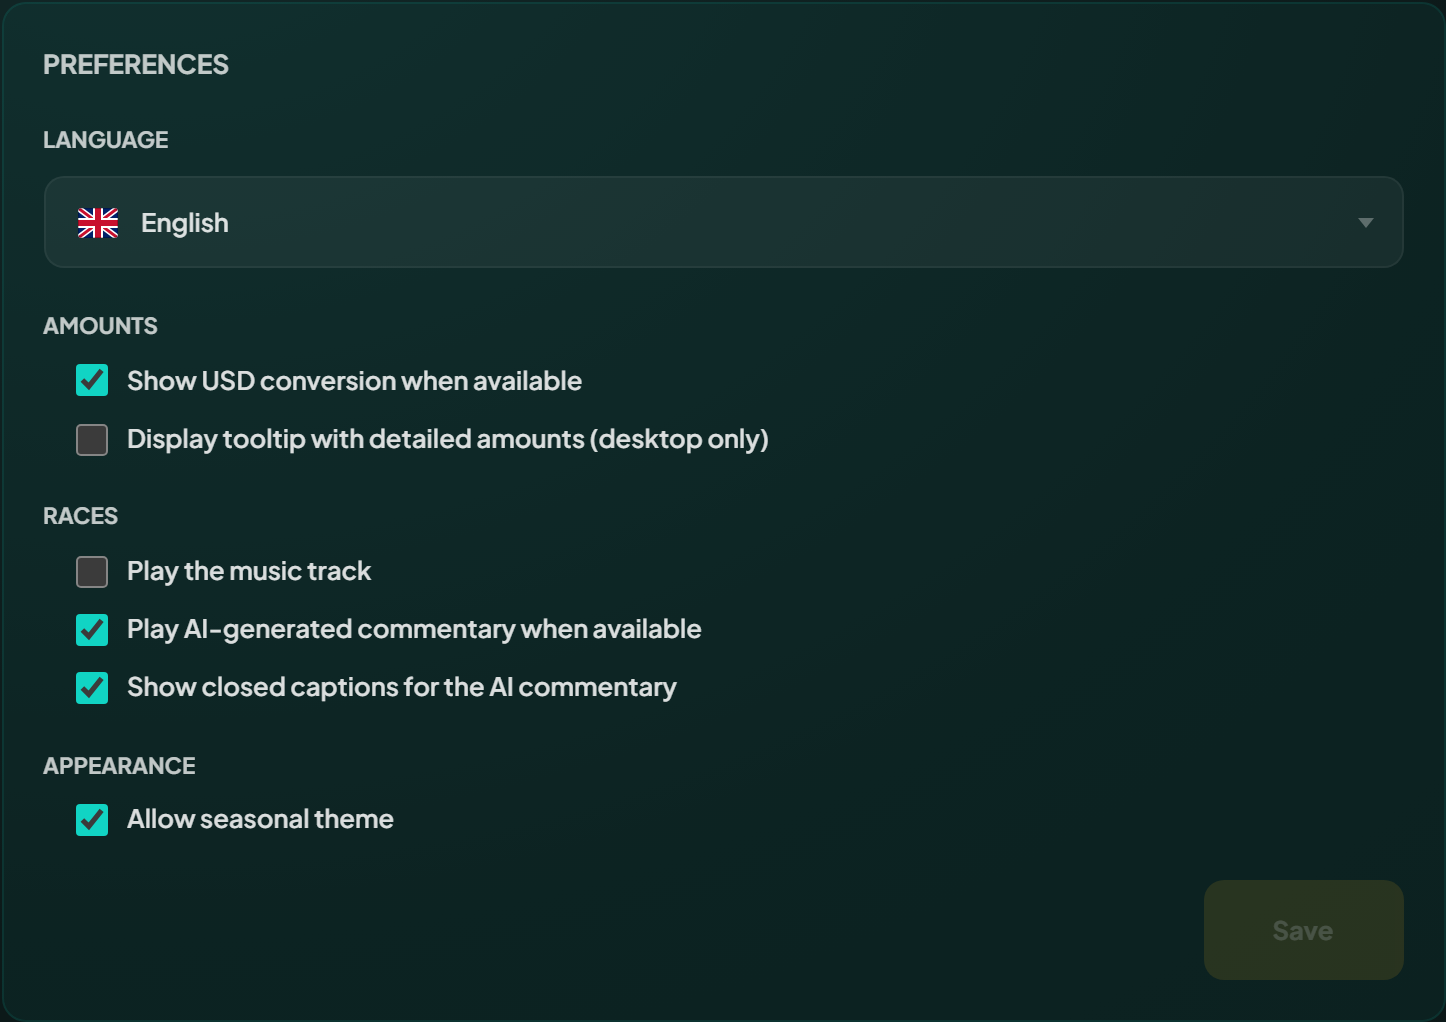
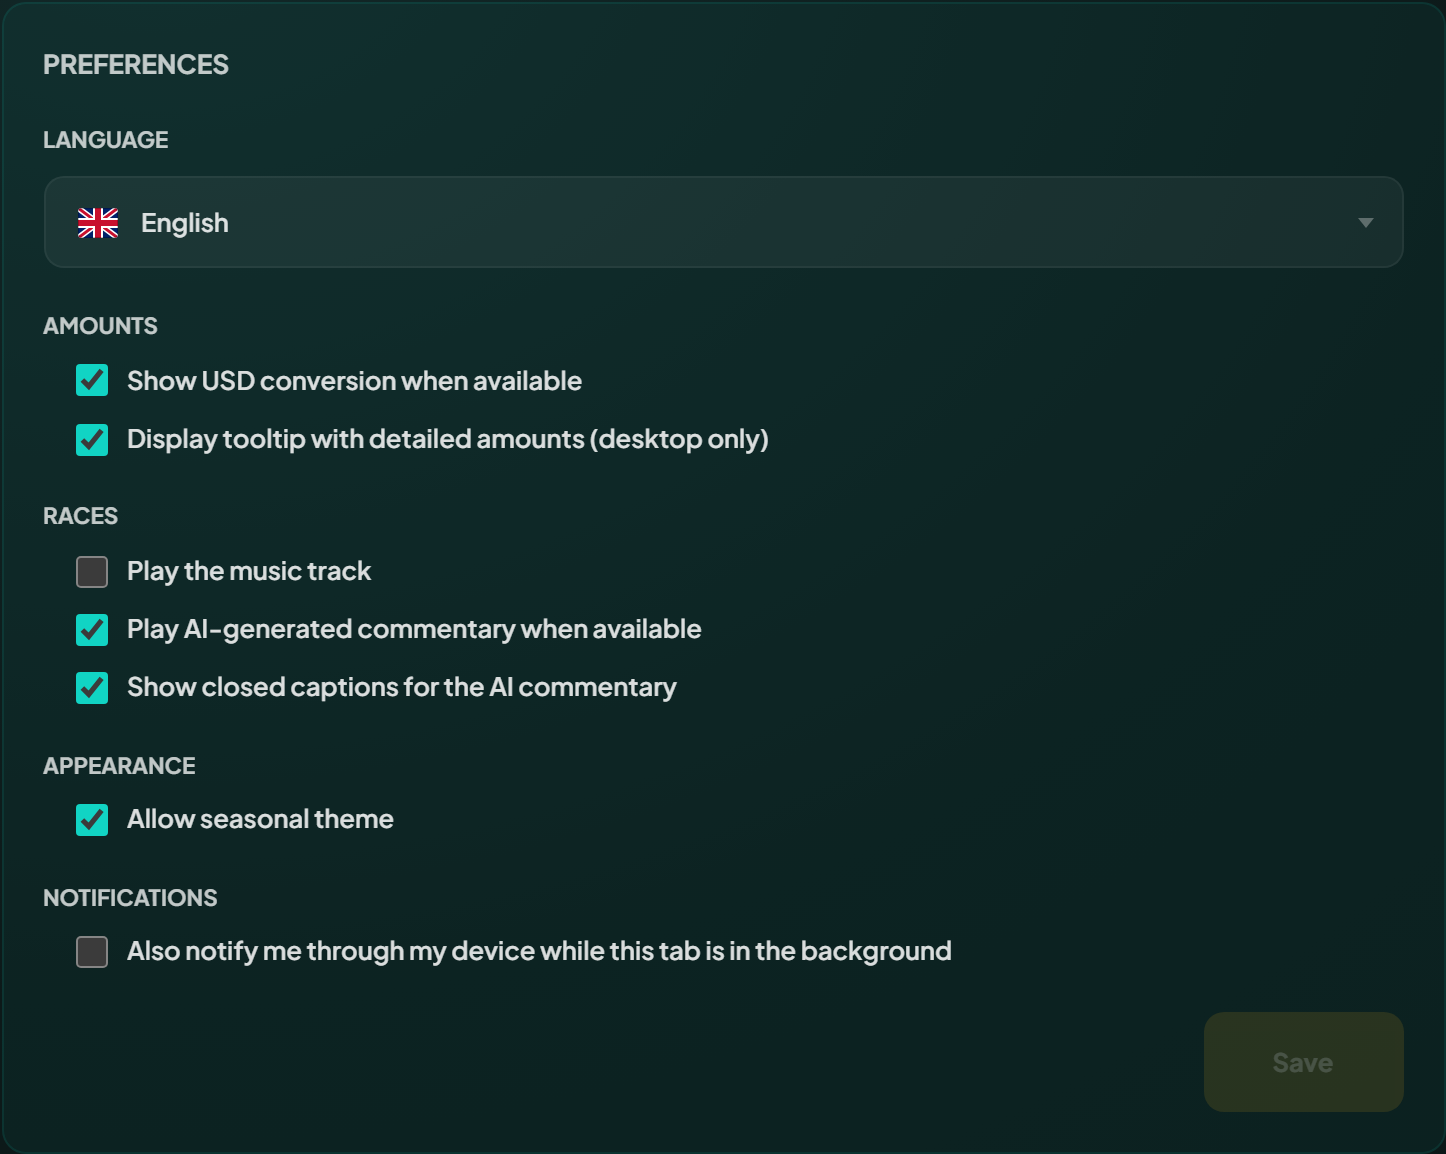
GITBOOK-45.7: No subject

diff --git a/docs/help/preferences.md b/docs/help/preferences.md
@@ -1,25 +1,26 @@
 ---
 icon: sliders
-description: Language, dollar figures, race sound and seasonal decoration, saved to your wallet so they follow you to every device.
+description: Language, dollar figures, race sound, seasonal decoration and device notifications, saved to your wallet so they follow you to every device.
 ---
 
 # Your preferences
 
-Preferences are on the Player page, in the Settings tab, grouped as Language, Amounts, Races and Appearance. They are saved against your wallet, so signing in on another device brings them with you.
+Preferences are on the Player page, in the Settings tab, grouped as Language, Amounts, Races, Appearance and Notifications. They are saved against your wallet, so signing in on another device brings them with you.
 
-Change what you like, then press **Save**. Nothing applies until you do, and Save stays disabled until something differs from what is stored. Every option starts switched on, so a wallet that never opens the panel sees the app as designed.
+Change what you like, then press **Save**. Nothing applies until you do, and Save stays disabled until something differs from what is stored. Every option but one starts switched on, so a wallet that never opens the panel sees the app as designed. Device notifications start off, because turning them on makes your browser ask for permission.
 
 <figure><img src="../../.gitbook/assets/help/app-preferences-panel-banner.png" alt="The preferences panel on the Settings tab, its switches listed with the Save button under them"><figcaption><p>Set them once, and they follow your wallet to any device.</p></figcaption></figure>
 
-| Preference                                               | What turning it off does                                                    |
-| -------------------------------------------------------- | --------------------------------------------------------------------------- |
-| **Language**                                             | A picker, not a switch. It appears when more than one language is on offer. |
-| **Show USD conversion when available**                   | Hides every approximate dollar figure. Token amounts are unaffected.        |
-| **Display tooltip with detailed amounts (desktop only)** | Stops the breakdown that opens when you hover an action button.             |
-| **Play the music track**                                 | Mutes the soundtrack during a race.                                         |
-| **Play AI-generated commentary when available**          | Mutes the commentary on races created with it.                              |
-| **Show closed captions for the AI commentary**           | Hides the captions written under the commentary.                            |
-| **Allow seasonal theme**                                 | Removes the seasonal decorations and colours while a theme is live.         |
+| Preference                                                               | What turning it off does                                                    |
+| ------------------------------------------------------------------------ | --------------------------------------------------------------------------- |
+| **Language**                                                             | A picker, not a switch. It appears when more than one language is on offer. |
+| **Show USD conversion when available**                                   | Hides every approximate dollar figure. Token amounts are unaffected.        |
+| **Display tooltip with detailed amounts (desktop only)**                 | Stops the breakdown that opens when you hover an action button.             |
+| **Play the music track**                                                 | Mutes the soundtrack during a race.                                         |
+| **Play AI-generated commentary when available**                          | Mutes the commentary on races created with it.                              |
+| **Show closed captions for the AI commentary**                           | Hides the captions written under the commentary.                            |
+| **Allow seasonal theme**                                                 | Removes the seasonal decorations and colours while a theme is live.         |
+| **Also notify me through my device while this tab is in the background** | Off by default. See [Device notifications](#device-notifications).          |
 
 ## The dollar figures
 
@@ -31,6 +32,18 @@ The three race options are the same switches as the mute and caption buttons on 
 
 {% hint style="info" %}
 Commentary only plays on races created with AI commentary. The option decides whether you hear it, not whether a race has it.
+{% endhint %}
+
+## Device notifications
+
+With this option on, a notification that would appear at the side of the page is also sent through your device while the tab is in the background: you are in another tab, another window, or the browser is minimised. While you are looking at the page, nothing changes.
+
+Pressing **Save** with the box ticked makes your browser ask whether the site may send notifications. If you refuse, the box goes back to off and the rest of your changes still save. To turn it on later, allow notifications for the site in your browser settings, then tick the box again.
+
+The setting covers the marketplace as well. There is no separate switch there: it follows what you saved here, for the wallet you are signed in with.
+
+{% hint style="info" %}
+The browser permission belongs to the device, not to your wallet. On a new device the option arrives ticked but that browser has not been asked yet. The app offers to turn notifications on there, once, and the Notifications group shows an **Enable on this device** button until the browser has an answer. Refusing on one device does not switch the option off for the others.
 {% endhint %}
 
 ## The balance in the top bar
